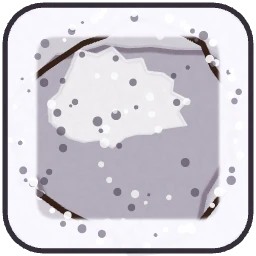
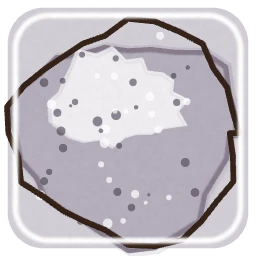
Charmfall: thin white cell rims instead of thick orange/green ones

diff --git a/anim/src/board-wc.js b/anim/src/board-wc.js
@@ -30,13 +30,13 @@
     for (let i = 0; i < 46; i++) { const a = r() * 6.28, d = 6 + r() * 36; x.fillStyle = soot ? (r() < .6 ? "rgba(150,140,160,.55)" : "rgba(0,0,0,.5)") : (r() < .55 ? "rgba(70,62,80,.6)" : "rgba(255,255,255,.7)"); x.beginPath(); x.arc(50 + Math.cos(a) * d, 52 + Math.sin(a) * d, .6 + r() * 1.5, 0, 6.28); x.fill(); }
     if (soot) for (let i = 0; i < 9; i++) { const a = r() * 6.28, d = 14 + r() * 26, ex = 50 + Math.cos(a) * d, ey = 52 + Math.sin(a) * d; x.save(); x.filter = "blur(1.5px)"; x.fillStyle = "rgba(255,120,40,.7)"; x.beginPath(); x.arc(ex, ey, 3.2, 0, 6.28); x.fill(); x.restore(); x.fillStyle = "#ffd070"; x.beginPath(); x.arc(ex, ey, 1.2, 0, 6.28); x.fill(); }
     pencil(x, blob(50, 52, 44, 42, 35 + n, .12), 36 + n, 2.2);
-    { const fr = rr(5, 5, 90, 90, 14); if (soot) { x.save(); x.filter = "blur(2.5px)"; x.strokeStyle = "rgba(255,110,30,.95)"; x.lineWidth = 14; x.stroke(rr(8, 8, 84, 84, 13)); x.restore(); x.strokeStyle = "#ffb040"; x.lineWidth = 5; x.setLineDash([10, 5]); x.stroke(fr); x.setLineDash([]); } else { x.save(); x.filter = "blur(1.2px)"; x.strokeStyle = "rgba(250,248,255,.98)"; x.lineWidth = 13; x.stroke(rr(8, 8, 84, 84, 13)); x.restore(); for (let i = 0; i < 70; i++) { const a = r() * 6.28, d = 39 + r() * 6; x.fillStyle = r() < .5 ? "rgba(120,112,132,.7)" : "rgba(255,255,255,.9)"; x.beginPath(); x.arc(50 + Math.cos(a) * d * 1.05, 50 + Math.sin(a) * d * 1.05, .6 + r() * 1.3, 0, 6.28); x.fill(); } x.strokeStyle = "rgba(30,24,36,.9)"; x.lineWidth = 2; x.stroke(rr(2, 2, 96, 96, 15)); } }   /* the part that shows round a charm is the rim: one layer has a thick rim of pale ash */
+    { const fr = rr(5, 5, 90, 90, 14); if (soot) { x.strokeStyle = "rgba(255,255,255,.92)"; x.lineWidth = 2.2; x.stroke(rr(6, 6, 88, 88, 13));   /* 2026-10-29 İdris "duvarlar kalın ve turuncu... ince ve beyaz olsun" */ } else { x.save(); x.filter = "blur(1.2px)"; x.strokeStyle = "rgba(255,255,255,.95)"; x.lineWidth = 2.2; x.stroke(rr(6, 6, 88, 88, 13)); x.restore(); for (let i = 0; i < 0; i++) { const a = r() * 6.28, d = 41 + r() * 4; x.fillStyle = r() < .5 ? "rgba(120,112,132,.7)" : "rgba(255,255,255,.9)"; x.beginPath(); x.arc(50 + Math.cos(a) * d * 1.05, 50 + Math.sin(a) * d * 1.05, .6 + r() * 1.3, 0, 6.28); x.fill(); } } }   /* the part that shows round a charm is the rim: one layer has a thick rim of pale ash */
     granulate(cv, 2.2); return cv; };
   // ---- a cell freed of ash: a fresh pale-green meadow wash on the paper, a gold pencil line, two small shoots in the corner
   B.clean = () => { const [cv, x] = tile(); { x.fillStyle = "rgba(240,236,206,.96)"; x.fill(rr(3, 3, 94, 94, 14)); }
     wash(x, blob(50, 52, 44, 42, 61, .08), "#a8d878", 62, { a: .32, layers: 5, rw: 3, rim: .5, j: 1.6 });
     wash(x, blob(40, 38, 24, 16, 63, .2), "#fffbe6", 64, { a: .5, layers: 3, rw: 1, rim: .1 });
-    { x.strokeStyle = "rgba(170,220,110,.95)"; x.lineWidth = 11; x.stroke(rr(8, 8, 84, 84, 13)); x.strokeStyle = "rgba(214,160,40,.95)"; x.lineWidth = 3; x.stroke(rr(3, 3, 94, 94, 15)); }   /* a fresh green rim with a gold line, so a cleared cell reads round its charm */
+    { x.strokeStyle = "rgba(255,255,255,.95)"; x.lineWidth = 2.2; x.stroke(rr(6, 6, 88, 88, 13)); }   /* a fresh green rim with a gold line, so a cleared cell reads round its charm */
     for (const [sx, sy, k] of [[18, 84, 1], [27, 86, .8]]) { x.strokeStyle = "#4a8a3a"; x.lineWidth = 1.6; x.beginPath(); x.moveTo(sx, sy); x.quadraticCurveTo(sx + 1, sy - 7 * k, sx + 3, sy - 11 * k); x.stroke();
       for (const sd of [-1, 1]) { const lp = new Path2D(); lp.ellipse(sx + 3 + sd * 4 * k, sy - 10 * k, 4.2 * k, 2.2 * k, sd * -.5, 0, 6.28); wash(x, lp, "#5fae4a", 70 + sx + sd, { a: .6, layers: 3, rw: 1, cx: sx, cy: sy, j: .4 }); } }
     granulate(cv, 1.4); return cv; };

diff --git a/index.html b/index.html
@@ -1368,7 +1368,7 @@ const STAR = 1000, starsOf = (pts) => Math.floor(pts / STAR);
 LEVELS.forEach((L) => { if (L.target) L.target = Math.max(STAR, Math.round(L.target / STAR) * STAR); });
 const BOOST0 = { hammer: 3, moves: 3, switch: 3, cross: 2, undo: 3 };
 // carrots are earned at a quarter of the old rate: every award is scaled, the remainder waits in the jar (save.carrotFrac) until a whole carrot is due
-const ART_Q = location.protocol === "file:" ? "" : "?v=1029c";   /* bump when the painted art in anim/ is baked again, so no browser keeps an old picture (the iOS app reads files, no query there) */
+const ART_Q = location.protocol === "file:" ? "" : "?v=1029d";   /* bump when the painted art in anim/ is baked again, so no browser keeps an old picture (the iOS app reads files, no query there) */
 const RWM = 2, BXM = 4;   /* 2026-10-29 İdris "ödül kazanmayı yarı yarıya indir, çok fazla booster kazanıyorum": carrots and ∞ lives x2 (was 4), boosters x4 (was 8) */
 const CARROT_RATE = .03125;   // 2026-10-27 İdris: rewards come half as often (the amount of each stays the same)
 function addCarrots(n) { save.carrotFrac = (save.carrotFrac || 0) + n * CARROT_RATE; const give = Math.floor(save.carrotFrac + 1e-9); save.carrotFrac -= give; save.carrots = (save.carrots || 0) + RWM * (give); carrotNew += RWM * (give); return give; }
@@ -3748,7 +3748,7 @@ function buildStatic() {
     for (let r = 0; r < ROWS; r++) for (let c = 0; c < COLS; c++) { if (G.hole[r][c]) { x.fillStyle = "rgba(120,100,70,.18)"; x.fillRect(c * CELL, r * CELL, CELL, CELL); continue; } const ci = WCB[(r + c) % 2 ? "cell-1" : "cell-0"]; if (ci) x.drawImage(ci, c * CELL - 2, r * CELL - 2, CELL + 4, CELL + 4); }   /* a piece not yet decoded is simply left out */
     /* 2026-10-29 İdris "tahta soluk, taşlar belirgin değil": the paper is glazed with a deep walnut ink (multiply keeps its tooth), so the cream-edged charms stand out */
     x.globalCompositeOperation = "multiply"; for (let r = 0; r < ROWS; r++) for (let c = 0; c < COLS; c++) { if (G.hole[r][c]) continue; x.fillStyle = (r + c) % 2 ? "#7e4c2c" : "#683c22"; x.fillRect(c * CELL, r * CELL, CELL, CELL); } x.globalCompositeOperation = "source-over";
-    x.strokeStyle = "rgba(255,236,200,.22)"; x.lineWidth = 1.4; for (let r = 0; r < ROWS; r++) for (let c = 0; c < COLS; c++) { if (G.hole[r][c]) continue; x.strokeRect(c * CELL + 1.5, r * CELL + 1.5, CELL - 3, CELL - 3); }   /* a light pencil frame round every cell */
+    x.strokeStyle = "rgba(255,255,255,.32)"; x.lineWidth = 1.2; for (let r = 0; r < ROWS; r++) for (let c = 0; c < COLS; c++) { if (G.hole[r][c]) continue; x.strokeRect(c * CELL + 1.5, r * CELL + 1.5, CELL - 3, CELL - 3); }   /* a light pencil frame round every cell */
     x.restore(); ST.bg = cv;
     const pic = (n) => { const [c2, k] = mkCan(CELL, CELL); k.imageSmoothingQuality = "high"; if (WCB[n]) k.drawImage(WCB[n], 0, 0, CELL, CELL); return c2; };
     ST.jelly = [pic("ob-ash1"), pic("ob-ash2")]; ST.clean = pic("ob-clean"); ST.frost = [pic("ob-bramble1"), pic("ob-bramble2"), pic("ob-bramble3")]; ST.choc = pic("ob-choc"); ST.stone = pic("ob-stone");
